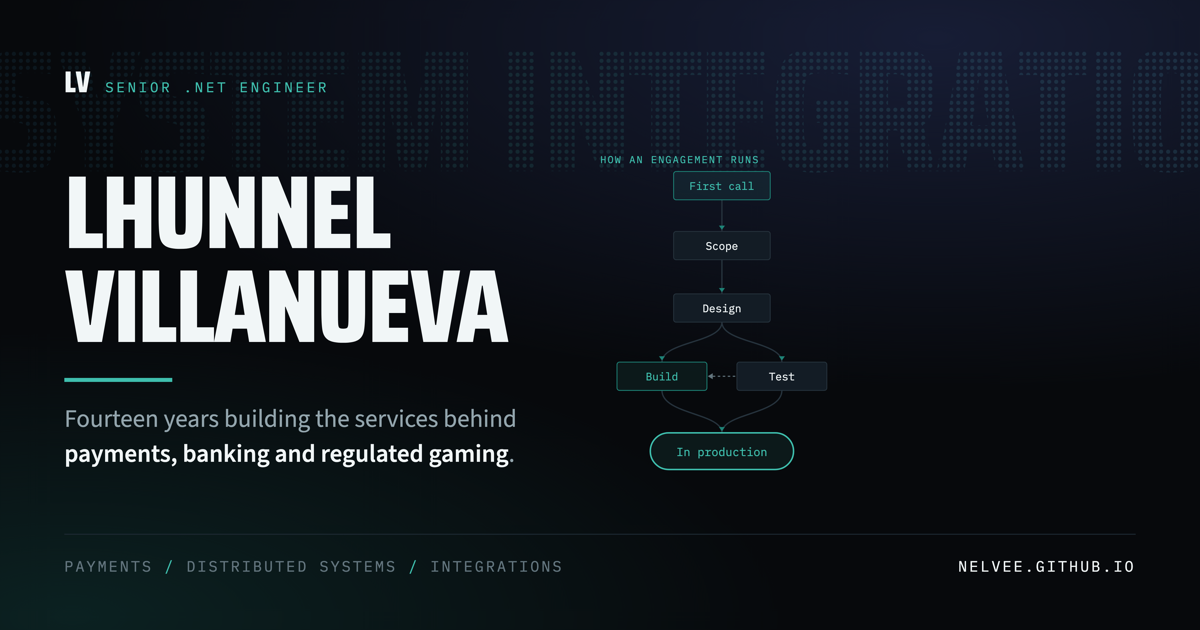
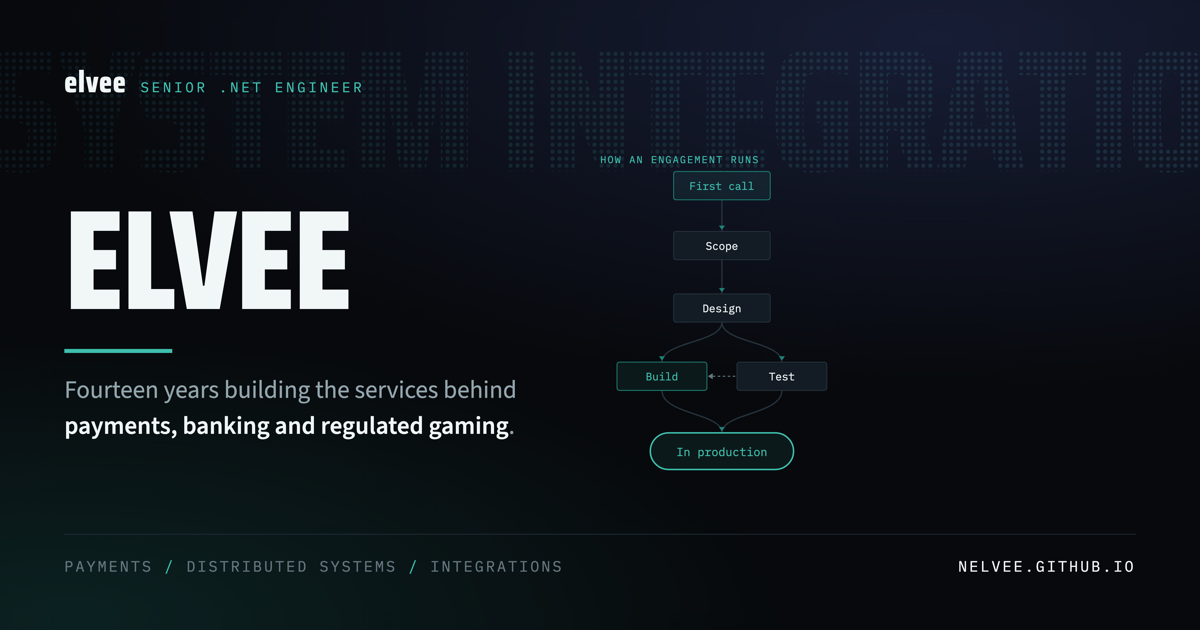
Use elvee as the site name
Wordmark, hero heading, title tag, meta author, og:site_name, JSON-LD name and
the share card. The CV keeps the full legal name.

Changed region(s): [[0.0308, 0.2714, 0.4317, 0.754], [0.0308, 0.0905, 0.3083, 0.1508]]

diff --git a/index.html b/index.html
@@ -3,16 +3,16 @@
 <head>
 <meta charset="utf-8">
 <meta name="viewport" content="width=device-width, initial-scale=1, viewport-fit=cover">
-<title>Lhunnel Villanueva — Senior .NET Engineer | .NET, Payments &amp; Systems Integration</title>
+<title>elvee — Senior .NET Engineer | .NET, Payments &amp; Systems Integration</title>
 <meta name="description" content="I build the services behind payments, banking and regulated gaming — the ones that have to balance, reconcile and stay up.">
 <link rel="canonical" href="https://nelvee.github.io/">
 <meta name="robots" content="index, follow, max-image-preview:large">
 <meta name="theme-color" content="#07090C">
-<meta name="author" content="Lhunnel Villanueva">
+<meta name="author" content="elvee">
 
 <meta property="og:type" content="profile">
-<meta property="og:site_name" content="Lhunnel Villanueva">
-<meta property="og:title" content="Lhunnel Villanueva — Senior .NET Engineer | .NET, Payments &amp; Systems Integration">
+<meta property="og:site_name" content="elvee">
+<meta property="og:title" content="elvee — Senior .NET Engineer | .NET, Payments &amp; Systems Integration">
 <meta property="og:description" content="I build the services behind payments, banking and regulated gaming — the ones that have to balance, reconcile and stay up.">
 <meta property="og:url" content="https://nelvee.github.io/">
 <meta property="og:image" content="https://nelvee.github.io/og-image.png">
@@ -21,7 +21,7 @@
 <meta property="og:locale" content="en_PH">
 
 <meta name="twitter:card" content="summary_large_image">
-<meta name="twitter:title" content="Lhunnel Villanueva — Senior .NET Engineer | .NET, Payments &amp; Systems Integration">
+<meta name="twitter:title" content="elvee — Senior .NET Engineer | .NET, Payments &amp; Systems Integration">
 <meta name="twitter:description" content="I build the services behind payments, banking and regulated gaming — the ones that have to balance, reconcile and stay up.">
 <meta name="twitter:image" content="https://nelvee.github.io/og-image.png">
 
@@ -29,7 +29,7 @@
 {
   "@context": "https://schema.org",
   "@type": "Person",
-  "name": "Lhunnel Villanueva",
+  "name": "elvee",
   "jobTitle": "Senior .NET Engineer",
   "description": "I build the services behind payments, banking and regulated gaming — the ones that have to balance, reconcile and stay up.",
   "url": "https://nelvee.github.io",
@@ -761,7 +761,7 @@
 <nav class="nav">
   <div class="progress" id="progress" style="width: 0%;"></div>
   <div class="nav-in">
-    <a class="mark" href="#top">LV <span id="mark-role">Senior .NET Engineer</span></a>
+    <a class="mark" href="#top">elvee <span id="mark-role">Senior .NET Engineer</span></a>
     <div class="nav-links">
       <a href="#work">Work</a>
       <a href="#background">Background</a>
@@ -777,7 +777,7 @@
     <div class="hero-grid">
       <div>
         <div class="greet" id="greet">Hello, I'm</div>
-        <h1 class="hero-name" id="hero-name">Lhunnel Villanueva</h1>
+        <h1 class="hero-name" id="hero-name">elvee</h1>
         <div class="hero-role" id="hero-role">Senior .NET Engineer</div>
         <p class="hero-blurb" id="hero-blurb">I build the services behind payments, banking and regulated gaming — the ones that have to balance, reconcile and stay up.</p>
         <div class="cta-row" id="cta"><a class="btn btn-solid" href="#work">View work</a><a class="btn btn-ghost" href="#contact">Get in touch</a></div>
@@ -1259,7 +1259,7 @@
 
 <div class="wrap">
   <footer>
-    <span id="foot-name">Lhunnel Villanueva — Senior .NET Engineer</span>
+    <span id="foot-name">elvee — Senior .NET Engineer</span>
     <span id="foot-links"><a href="mailto:lhunnel_008@yahoo.com.sg">Email</a> &nbsp;/&nbsp; <a href="https://www.linkedin.com/in/nhelv/" target="_blank" rel="noopener">LinkedIn</a> &nbsp;/&nbsp; <a href="https://www.upwork.com/freelancers/~0162137f23bc65f397" target="_blank" rel="noopener">Upwork</a> &nbsp;/&nbsp; <a href="https://github.com/nelvee" target="_blank" rel="noopener">GitHub</a></span>
   </footer>
 </div>
@@ -1277,7 +1277,7 @@
 const PORTFOLIO = {
 
   /* ---- Identity ---------------------------------------------------- */
-  name: "Lhunnel Villanueva",
+  name: "elvee",
   heroWord: "System Integration",   // the giant halftone word in the hero
   greeting: "Hello, I'm",
   role: "Senior .NET Engineer",
@@ -1301,7 +1301,7 @@ const PORTFOLIO = {
   linkedin: "https://www.linkedin.com/in/nhelv/",
   upwork:   "https://www.upwork.com/freelancers/~0162137f23bc65f397",
   github:   "https://github.com/nelvee",
-  cvUrl: null,      // ← host Lhunnel_Villanueva_CV.pdf, paste the URL
+  cvUrl: null,      // ← host your CV somewhere public, paste the URL
   photo: null,      // optional: a cut-out PNG replaces the system graphic
 
   /* ---- Tech strip --------------------------------------------------- */
@@ -1672,7 +1672,7 @@ const ICONS = {
    ===================================================================== */
 
 
-/* The hero graphic: what engaging Lhunnel actually looks like, from the
+/* The hero graphic: what an engagement actually looks like, from the
    first call through to something running in production. Packets travel the
    path so the picture animates without needing a photograph. */
 function systemGraphic() {
